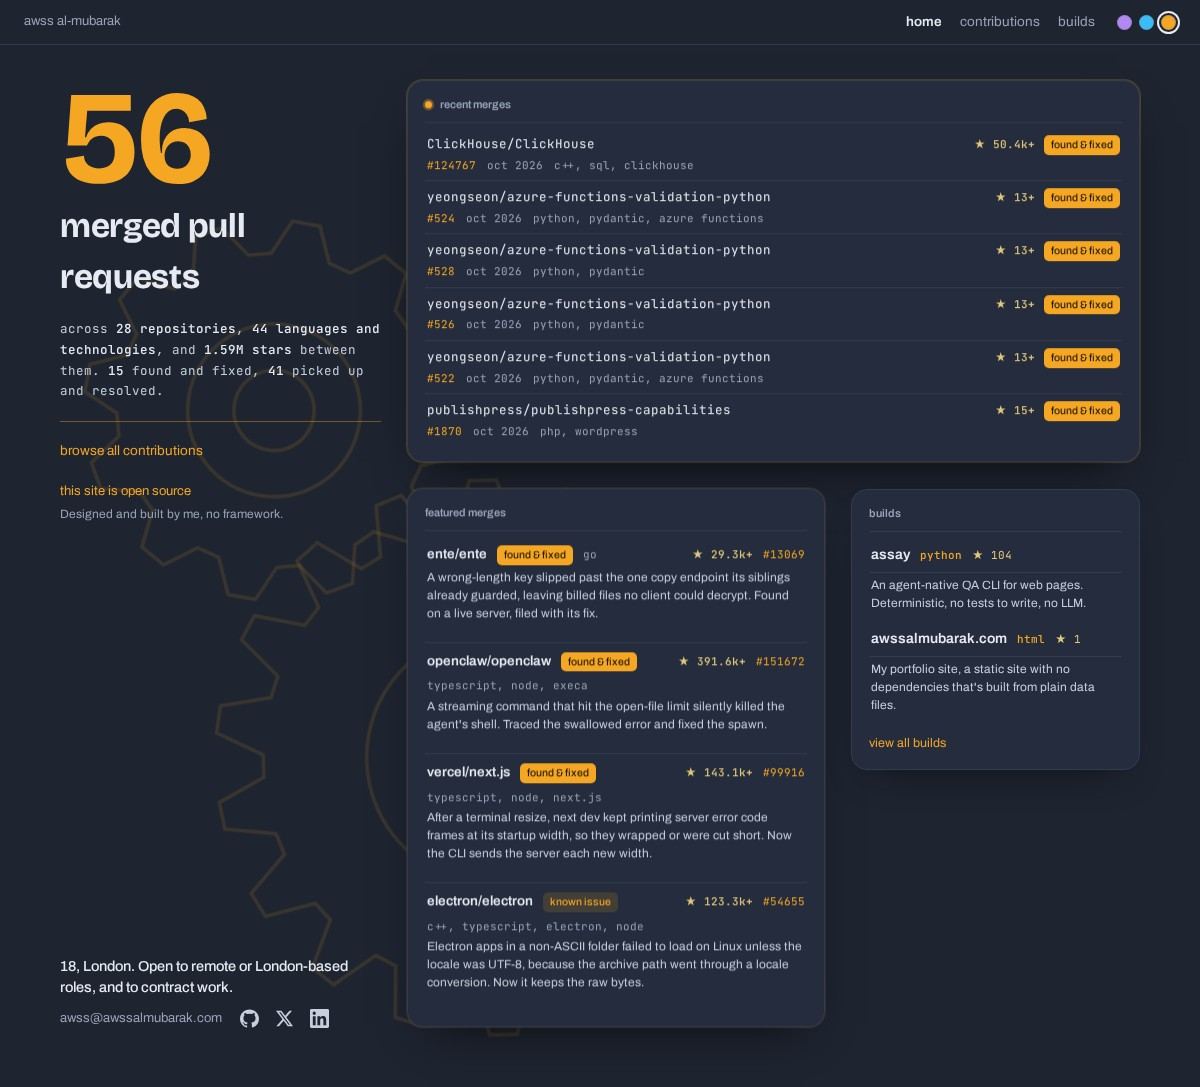
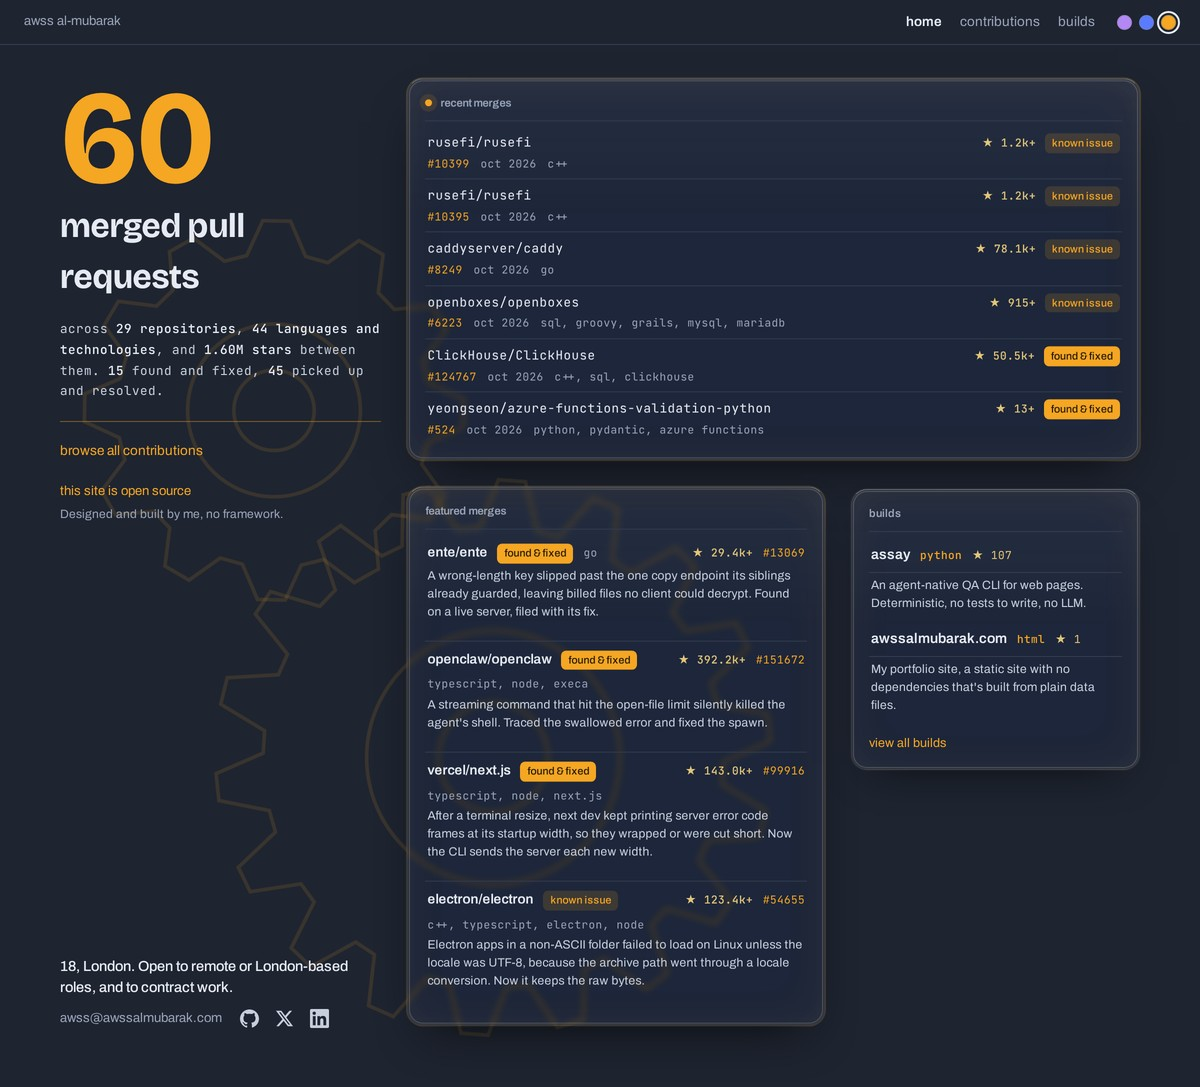
site: frosted glass panels on home and contributions, and a steel blue theme

diff --git a/site/assets/site.css b/site/assets/site.css
@@ -1,6 +1,6 @@
 /* shared shell for awssalmubarak.com: theme tokens (three skins), base reset, the top bar,
-   and the few primitives every page uses (origin badge, star and readable-secondary colours).
-   violet is the merge colour. each page adds its own layout CSS on top of this. */
+   and the few primitives every page uses (origin badge, star and readable-secondary colours,
+   the glass panel). violet is the merge colour. each page adds its own layout CSS on top of this. */
 :root{
   color-scheme:dark;
   --bg:#111116; --surface:#1a1a22; --ink:#ececf2; --muted:#a6a6b2; --line:#2a2a34;
@@ -9,11 +9,23 @@
   --display:"Bricolage Grotesque","Archivo",system-ui,sans-serif;
   --sans:"Archivo",system-ui,-apple-system,sans-serif;
   --mono:"JetBrains Mono",ui-monospace,Menlo,monospace;
+  /* frosted glass for panels over the animated backdrops: a faint sheen and theme tint over a
+     light blur, a lit top edge, and a bevelled rim (the border, a dark 1px gap, then a thin bright
+     line inside) with a soft inner glow. --glass-rim goes first in a panel's box-shadow, and in
+     any keyframes that animate it. */
+  --glass-fill:linear-gradient(180deg,rgba(255,255,255,.04),rgba(255,255,255,0) 140px),rgba(var(--pulse),.016);
+  --glass-edge:rgba(255,255,255,.1); --glass-lit:rgba(255,255,255,.3);
+  --glass-blur:blur(3.2px) saturate(180%);
+  --glass-rim:inset 0 0 0 1px rgba(0,0,0,.4),inset 0 0 0 2px rgba(255,255,255,.18),
+    inset 0 0 28px rgba(255,255,255,.035),inset 0 0 48px rgba(var(--pulse),.05);
 }
 :root[data-skin="slate"]{
-  --bg:#0f172a; --surface:#1e293b; --ink:#e8edf5; --muted:#94a3b8; --line:#2a3a54;
-  --accent:#38bdf8; --accent-fg:#06222e; --accent-soft:rgba(56,189,248,.14); --pulse:56,189,248;
-  --star:#fbbf24; --sep:#2f405c; --read:#c5d0e0;
+  --bg:#14171d; --surface:#1c2029; --ink:#e8ecf4; --muted:#9aa0ae; --line:#2a2e38;
+  --accent:#5b7bff; --accent-fg:#050b1a; --accent-soft:rgba(91,123,255,.15); --pulse:91,123,255;
+  --star:#fbbf24; --sep:#2f343f; --read:#cacdd7;
+  /* this glass takes colour out of what's behind it, so the panels stay a dull grey with a hint
+     of blue rather than picking up the page's blue cast */
+  --glass-blur:blur(3.2px) saturate(55%);
 }
 :root[data-skin="nordic"]{
   --bg:#1e2430; --surface:#242c3d; --ink:#e6eaf2; --muted:#9aa4b8; --line:#333c4f;
@@ -38,7 +50,7 @@ button{font:inherit;color:inherit}
 .sw{width:15px;height:15px;border-radius:50%;border:1px solid rgba(128,128,128,.4);cursor:pointer;padding:0;transition:transform .12s}
 .sw:hover{transform:scale(1.15)}
 .sw[data-skin="violet"]{background:#b388f5}
-.sw[data-skin="slate"]{background:#38bdf8}
+.sw[data-skin="slate"]{background:#5b7bff}
 .sw[data-skin="nordic"]{background:#f5a623}
 .sw.on{outline:2px solid var(--ink);outline-offset:2px}
 
@@ -49,24 +61,25 @@ button{font:inherit;color:inherit}
 .hr{height:1px;border:none;background:var(--accent);opacity:.4;margin:0}
 
 /* contained layout, for a page whose body carries .contained: on desktop the page itself doesn't
-   scroll. the header stays put and the .box below it is a rounded, softly pulsing panel that scrolls
-   inside itself, clear of the bottom of the screen. narrower or shorter windows scroll the page.
-   no scrollbar-color or scrollbar-width here, because setting either makes Chrome ignore the
+   scroll. the header stays put and the .box below it is a rounded, softly pulsing glass panel that
+   scrolls inside itself, clear of the bottom of the screen. narrower or shorter windows scroll the
+   page. no scrollbar-color or scrollbar-width here, because setting either makes Chrome ignore the
    ::-webkit-scrollbar rules. */
-@keyframes boxbreathe{0%,100%{box-shadow:0 18px 40px -26px rgba(0,0,0,.6),0 0 0 1px transparent}
-  50%{box-shadow:0 22px 48px -22px rgba(0,0,0,.68),0 0 0 1px rgba(var(--pulse),.28)}}
+@keyframes boxbreathe{0%,100%{box-shadow:var(--glass-rim),0 18px 40px -26px rgba(0,0,0,.6),0 0 0 1px transparent}
+  50%{box-shadow:var(--glass-rim),0 22px 48px -22px rgba(0,0,0,.68),0 0 0 1px rgba(var(--pulse),.28)}}
 @media (min-width:980px) and (min-height:620px){
   body.contained{height:100%;display:flex;flex-direction:column;overflow:hidden}
   .contained .wrap{flex:1 1 auto;min-height:0;width:100%;display:flex;flex-direction:column;padding-block:26px 52px}
   .contained .box{flex:1 1 auto;min-height:0;margin-top:18px;overflow-y:auto;
-    background:var(--surface);border:1px solid var(--line);border-radius:18px;padding:10px 24px;
-    box-shadow:0 18px 40px -26px rgba(0,0,0,.6);animation:boxbreathe 4.6s ease-in-out infinite;
+    background:var(--glass-fill);border:1px solid var(--glass-edge);border-top-color:var(--glass-lit);
+    border-radius:18px;padding:10px 24px;-webkit-backdrop-filter:var(--glass-blur);backdrop-filter:var(--glass-blur);
+    box-shadow:var(--glass-rim),0 18px 40px -26px rgba(0,0,0,.6);animation:boxbreathe 4.6s ease-in-out infinite;
     scrollbar-gutter:stable}
   .contained .box::-webkit-scrollbar{width:12px}
   .contained .box::-webkit-scrollbar-track{background:transparent;margin:16px 0}
   .contained .box::-webkit-scrollbar-button{display:none;height:0;width:0}
   .contained .box::-webkit-scrollbar-button:single-button{display:none;height:0;width:0}
-  .contained .box::-webkit-scrollbar-thumb{background:var(--line);border-radius:999px;border:4px solid var(--surface)}
+  .contained .box::-webkit-scrollbar-thumb{background:var(--line);border-radius:999px;border:4px solid transparent;background-clip:padding-box}
   .contained .box::-webkit-scrollbar-thumb:hover{background:var(--muted)}
 }
 

diff --git a/site/contributions.template.html b/site/contributions.template.html
@@ -37,7 +37,11 @@ h1{font-family:var(--display);font-weight:700;font-size:clamp(34px,6vw,52px);lin
 /* the search bar sits halfway between the divider above and the filters below. --pin is the room
    kept above the search bar while the toolbar is pinned on phones, and the margin adds the rest. */
 .toolbar{--gap:25px;--pin:18px;position:sticky;top:0;z-index:5;background:var(--bg);padding:var(--pin) 0 12px;margin-top:calc(var(--gap) - var(--pin));border-bottom:1px solid var(--sep)}
-.searchbar{display:flex;align-items:center;gap:9px;background:var(--surface);border:1px solid var(--line);border-radius:10px;padding:9px 11px 9px 13px}
+/* the same glass as the ledger box, with the sheen and rim sized to the bar's height */
+.searchbar{display:flex;align-items:center;gap:9px;border-radius:10px;padding:9px 11px 9px 13px;
+  background:linear-gradient(180deg,rgba(255,255,255,.04),rgba(255,255,255,0)),rgba(var(--pulse),.016);
+  border:1px solid var(--glass-edge);border-top-color:var(--glass-lit);
+  box-shadow:inset 0 0 0 1px rgba(0,0,0,.4),inset 0 0 0 2px rgba(255,255,255,.16),inset 0 0 18px rgba(255,255,255,.03)}
 .searchbar:focus-within{border-color:var(--accent)}
 .search{flex:1;min-width:0;border:none;background:none;font-family:var(--sans);font-size:14.5px;color:var(--ink);padding:2px 0}
 .search::placeholder{color:var(--muted)}
@@ -96,9 +100,11 @@ h1{font-family:var(--display);font-weight:700;font-size:clamp(34px,6vw,52px);lin
 .nm-btn:hover{border-color:var(--accent)}
 
 /* desktop: the shared contained layout in site.css holds the list in its scrolling box, so the
-   toolbar no longer needs to stick. */
+   toolbar no longer needs to stick or to hide rows under it. it drops its background so the
+   backdrop shows through the glass search bar. */
 @media (min-width:980px) and (min-height:620px){
-  .contrib .toolbar{position:static}
+  .contrib .toolbar{position:static;background:none}
+  .searchbar{-webkit-backdrop-filter:var(--glass-blur);backdrop-filter:var(--glass-blur)}
 }
 
 /* backdrop: a faint git merge-graph flowing down behind the page, offset to the right like the
@@ -112,10 +118,10 @@ h1{font-family:var(--display);font-weight:700;font-size:clamp(34px,6vw,52px);lin
 .mgraph.right{right:-9vw}
 .mgraph.left{left:-9vw;transform:scaleX(-1)}
 .mgraph .trunk,.mgraph .branch{fill:none;stroke:var(--accent);stroke-width:2.2;stroke-linecap:round;vector-effect:non-scaling-stroke}
-.mgraph .trunk{opacity:.17}
-.mgraph .branch{opacity:.21;stroke-dasharray:5 12;animation:mflow 12s linear infinite}
-.mgraph .node{fill:var(--accent);opacity:.22}
-.mgraph .node.hollow{fill:var(--bg);stroke:var(--accent);stroke-width:2;opacity:.3}
+.mgraph .trunk{opacity:.23}
+.mgraph .branch{opacity:.29;stroke-dasharray:5 12;animation:mflow 12s linear infinite}
+.mgraph .node{fill:var(--accent);opacity:.3}
+.mgraph .node.hollow{fill:var(--bg);stroke:var(--accent);stroke-width:2;opacity:.4}
 @keyframes mflow{to{stroke-dashoffset:-136}}
 /* phones: drop the backdrop, the page reads cleaner without it at narrow widths */
 @media (max-width:980px){.backdrop{display:none}}
@@ -131,7 +137,7 @@ h1{font-family:var(--display);font-weight:700;font-size:clamp(34px,6vw,52px);lin
       <a href="/builds">builds</a>
       <span class="skins" id="skins" role="group" aria-label="theme">
         <button class="sw" type="button" data-skin="violet" title="dark violet" aria-label="dark violet"></button>
-        <button class="sw" type="button" data-skin="slate" title="deep slate" aria-label="deep slate"></button>
+        <button class="sw" type="button" data-skin="slate" title="steel blue" aria-label="steel blue"></button>
         <button class="sw" type="button" data-skin="nordic" title="nordic slate" aria-label="nordic slate"></button>
       </span>
     </nav>

diff --git a/site/home.template.html b/site/home.template.html
@@ -56,12 +56,12 @@
 .soc svg{width:19px;height:19px;fill:currentColor;display:block}
 .soc:hover{color:var(--accent);transform:translateY(-2px)}
 
-.card{background:var(--surface);border:1px solid var(--line);border-radius:16px;padding:15px 17px;display:flex;flex-direction:column;min-height:0;
-  box-shadow:0 18px 40px -24px rgba(0,0,0,.72);animation:breathe 4.6s ease-in-out infinite, float 7.5s ease-in-out infinite}
+.card{background:var(--glass-fill);border:1px solid var(--glass-edge);border-top-color:var(--glass-lit);border-radius:16px;padding:15px 17px;display:flex;flex-direction:column;min-height:0;
+  box-shadow:var(--glass-rim),0 18px 40px -24px rgba(0,0,0,.72);animation:breathe 4.6s ease-in-out infinite, float 7.5s ease-in-out infinite}
 .card-featured{animation-delay:.9s,1.3s}
 .card-builds{animation-delay:1.8s,2.6s}
 @keyframes float{0%,100%{transform:translateY(0)}50%{transform:translateY(-8px)}}
-@keyframes breathe{0%,100%{box-shadow:0 18px 40px -24px rgba(0,0,0,.72),0 0 0 1px transparent}50%{box-shadow:0 22px 48px -22px rgba(0,0,0,.78),0 0 0 1px rgba(var(--pulse),.26)}}
+@keyframes breathe{0%,100%{box-shadow:var(--glass-rim),0 18px 40px -24px rgba(0,0,0,.72),0 0 0 1px transparent}50%{box-shadow:var(--glass-rim),0 22px 48px -22px rgba(0,0,0,.78),0 0 0 1px rgba(var(--pulse),.26)}}
 .card-h{display:flex;align-items:center;gap:8px;font-size:11px;font-weight:600;color:var(--muted);padding-bottom:9px;margin-bottom:5px;border-bottom:1px solid var(--line)}
 .dot{width:7px;height:7px;border-radius:50%;background:var(--accent);animation:ping 1.8s ease-out infinite}
 @keyframes ping{0%{box-shadow:0 0 0 0 rgba(var(--pulse),.5)}70%{box-shadow:0 0 0 7px rgba(var(--pulse),0)}100%{box-shadow:0 0 0 0 rgba(var(--pulse),0)}}
@@ -120,6 +120,8 @@
   }
   .gears{display:block;position:absolute;inset:0;z-index:0;pointer-events:none}
   .numblock,.about,.card{z-index:1}
+  /* the cards frost the gears behind them. phones draw no gears, so they skip the blur */
+  .card{-webkit-backdrop-filter:var(--glass-blur);backdrop-filter:var(--glass-blur)}
   .numblock{grid-area:num; align-self:start}
   .count{font-size:clamp(96px,11vw,176px)}
   .card-recent{grid-area:recent}
@@ -145,7 +147,7 @@
       <a href="/builds">builds</a>
       <span class="skins" id="skins" role="group" aria-label="theme">
         <button class="sw" type="button" data-skin="violet" title="dark violet" aria-label="dark violet"></button>
-        <button class="sw" type="button" data-skin="slate" title="deep slate" aria-label="deep slate"></button>
+        <button class="sw" type="button" data-skin="slate" title="steel blue" aria-label="steel blue"></button>
         <button class="sw" type="button" data-skin="nordic" title="nordic slate" aria-label="nordic slate"></button>
       </span>
     </nav>

diff --git a/site/builds.template.html b/site/builds.template.html
@@ -108,6 +108,7 @@ html:has(dialog[open]){overflow:hidden}
   .contained .box{margin:0 calc(50% - 50vw);
     padding:0 calc(50vw - 50% - 12px) 0 calc(50vw - 50%);
     background:none;border:0;border-radius:0;box-shadow:none;animation:none;
+    -webkit-backdrop-filter:none;backdrop-filter:none;
     -webkit-mask-image:linear-gradient(to bottom,transparent 0,#000 28px,#000 calc(100% - 48px),transparent);
     mask-image:linear-gradient(to bottom,transparent 0,#000 28px,#000 calc(100% - 48px),transparent)}
   .contained .box::-webkit-scrollbar-thumb{border-color:var(--bg)}
@@ -146,7 +147,7 @@ html:has(dialog[open]){overflow:hidden}
       <a class="on" href="/builds">builds</a>
       <span class="skins" id="skins" role="group" aria-label="theme">
         <button class="sw" type="button" data-skin="violet" title="dark violet" aria-label="dark violet"></button>
-        <button class="sw" type="button" data-skin="slate" title="deep slate" aria-label="deep slate"></button>
+        <button class="sw" type="button" data-skin="slate" title="steel blue" aria-label="steel blue"></button>
         <button class="sw" type="button" data-skin="nordic" title="nordic slate" aria-label="nordic slate"></button>
       </span>
     </nav>
